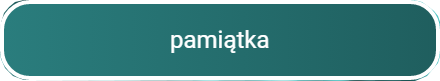
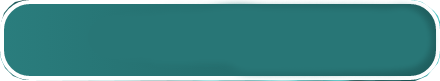
zmiana pytań na text

diff --git a/src/components/SceneGame1.vue b/src/components/SceneGame1.vue
@@ -9,10 +9,26 @@ const store = useScene1Store()
 
 const ifChoice = ref(true)
 
+function blurFocus(){
+  document.getElementsByClassName("odpowiedz")[0].blur()
+  document.getElementsByClassName("odpowiedz")[1].blur()
+  document.getElementsByClassName("odpowiedz")[2].blur()
+  document.getElementsByClassName("odpowiedz")[3].blur()
+}
+
+function changeActive() {
+  store.is_Active1 = false
+  store.is_Active2 = false
+  store.is_Active3 = false
+  store.is_Active4 = false
+}
+
 function afterLoose() {
   if (store.isAnswerBad) {
     setTimeout(() => {
       emits("koniec-gry")
+      changeActive()
+
     }, 2500)
   }
 }
@@ -23,7 +39,7 @@ function odpowiedz1akcja() {
     store.ifChoice = false
     store.closeWin()
     afterLoose()
-
+    blurFocus()
   }
 
 }
@@ -34,7 +50,7 @@ function odpowiedz2akcja() {
     store.ifChoice = false
     store.closeWin()
     afterLoose()
-
+    blurFocus()
   }
 }
 
@@ -44,7 +60,7 @@ function odpowiedz3akcja() {
     store.ifChoice = false
     store.closeWin()
     afterLoose()
-
+     blurFocus()
   }
 }
 
@@ -54,10 +70,16 @@ function odpowiedz4akcja() {
     store.ifChoice = false
     store.closeWin()
     afterLoose()
-
+     blurFocus()
   }
-
 }
+
+function endScene(){
+emits("koniec-gry");
+changeActive();
+}
+
+
 
 
 
@@ -65,19 +87,23 @@ function odpowiedz4akcja() {
 
 <template>
   <div class="tlo">
-    <div class="pytanie"></div>
+    <div class="pytanie">
+      <p class="pytanie-paragraf">
+      {{ store.pytanie }}
+      </p>
+    </div>
     <div class="plansza-wygrana" v-if="store.isAnswerGood"></div>
     <div class="plansza-przegrana" v-if="store.isAnswerBad"></div>
-    <button class="odpowiedz odpowiedz1" :class="{ active: store.is_Active1 }" @click="odpowiedz1akcja"></button>
-    <button class="odpowiedz odpowiedz2" :class="{ active: store.is_Active2 }" @click="odpowiedz2akcja"></button>
-    <button class="odpowiedz odpowiedz3" :class="{ active: store.is_Active3 }" @click="odpowiedz3akcja"></button>
-    <button class="odpowiedz odpowiedz4" :class="{ active: store.is_Active4 }" @click="odpowiedz4akcja"></button>
+    <button class="odpowiedz odpowiedz1" :class="{ active: store.is_Active1 }" @click="odpowiedz1akcja">{{ store.answerA }}</button>
+    <button class="odpowiedz odpowiedz2" :class="{ active: store.is_Active2 }" @click="odpowiedz2akcja">{{ store.answerB }}</button>
+    <button class="odpowiedz odpowiedz3" :class="{ active: store.is_Active3 }" @click="odpowiedz3akcja">{{ store.answerC }}</button>
+    <button class="odpowiedz odpowiedz4" :class="{ active: store.is_Active4 }" @click="odpowiedz4akcja">{{ store.answerD }}</button>
 
-    <button class="play-again" @click="$emit('koniec-gry')"></button>
+    <button class="play-again" @click="endScene"></button>
     <div class="punktacja">
       <p class="czas">Czas na odpowiedź: 8</p>
     </div>
-    <div class="ramka-punkty"></div>
+    <div class="ramka-punkty" :style="{ left: store.ramkPuntyX, top: store.ramkPuntyY }"></div>
   </div>
 
 </template>
@@ -124,7 +150,8 @@ function odpowiedz4akcja() {
   background-position: -16px -18px;
   background-repeat: no-repeat;
   border-radius: 20px;
-
+  color: white;
+  font-size: 30px;
   height: 620px;
   width: 1280px;
   top: 220px;
@@ -132,7 +159,14 @@ function odpowiedz4akcja() {
   position: absolute;
 }
 
+.pytanie-paragraf{
+  position: absolute;
+  top: 290px;
+  left: 300px;
+}
+
 .odpowiedz {
+  background-image: url("../assets/odpowiedz1b.png");
   background-size: 455px 95px;
   background-position: -7px -9px;
   background-repeat: no-repeat;
@@ -140,6 +174,8 @@ function odpowiedz4akcja() {
   border-width: 3px;
   border-style: solid;
   border-color: white;
+  color: white;
+  font-size: 30px;
   height: 81px;
   width: 440px;
   position: absolute;
@@ -155,25 +191,25 @@ function odpowiedz4akcja() {
 }
 
 .odpowiedz1 {
-  background-image: url("../assets/odpowiedz1b.png");
+
   top: 670px;
   left: 140px;
 }
 
 .odpowiedz2 {
-  background-image: url("../assets/odpowiedz2b.png");
+  
   top: 670px;
   left: 640px;
 }
 
 .odpowiedz3 {
-  background-image: url("../assets/odpowiedz3b.png");
+
   top: 790px;
   left: 140px;
 }
 
 .odpowiedz4 {
-  background-image: url("../assets/odpowiedz4b.png");
+
   top: 790px;
   left: 640px;
 }
@@ -201,8 +237,8 @@ function odpowiedz4akcja() {
 
   height: 72px;
   width: 430px;
-  top: 870px;
-  left: 1445px;
+  /* top: 870px;
+  left: 1445px; */
   position: absolute;
 }
 

diff --git a/src/stores/Scene1store.js b/src/stores/Scene1store.js
@@ -17,6 +17,15 @@ export const useScene1Store = defineStore("scene1", {
     count: 0,
 
     ifChoice: true,
+
+    ramkPuntyX: gameData.odpowiedzi[0].ramkaPositionX,
+    ramkPuntyY: gameData.odpowiedzi[0].ramkaPositionY,
+
+    pytanie: gameData.odpowiedzi[0].pytanie,
+    answerA: gameData.odpowiedzi[0].odpowiedz1,
+    answerB: gameData.odpowiedzi[0].odpowiedz2,
+    answerC: gameData.odpowiedzi[0].odpowiedz3,
+    answerD: gameData.odpowiedzi[0].odpowiedz4,
   }),
   getters: {
     doubleCount: (state) => state.count * 2,
@@ -34,6 +43,7 @@ export const useScene1Store = defineStore("scene1", {
       if (gameData.odpowiedzi[this.count].answer == "1") {
         this.isAnswerGood = true;
         this.isAnswerBad = false;
+        this.increment();
       } else {
         this.isAnswerGood = false;
         this.isAnswerBad = true;
@@ -49,6 +59,7 @@ export const useScene1Store = defineStore("scene1", {
       if (gameData.odpowiedzi[this.count].answer == "2") {
         this.isAnswerGood = true;
         this.isAnswerBad = false;
+        this.increment();
       } else {
         this.isAnswerGood = false;
         this.isAnswerBad = true;
@@ -64,6 +75,7 @@ export const useScene1Store = defineStore("scene1", {
       if (gameData.odpowiedzi[this.count].answer == "3") {
         this.isAnswerGood = true;
         this.isAnswerBad = false;
+        this.increment();
       } else {
         this.isAnswerGood = false;
         this.isAnswerBad = true;
@@ -79,6 +91,7 @@ export const useScene1Store = defineStore("scene1", {
       if (gameData.odpowiedzi[this.count].answer == "4") {
         this.isAnswerGood = true;
         this.isAnswerBad = false;
+        this.increment();
       } else {
         this.isAnswerGood = false;
         this.isAnswerBad = true;
@@ -90,6 +103,12 @@ export const useScene1Store = defineStore("scene1", {
       setTimeout(() => {
         this.isAnswerGood = false;
         this.ifChoice = true;
+        this.ramkPuntyX = gameData.odpowiedzi[this.count].ramkaPositionX;
+        this.ramkPuntyY = gameData.odpowiedzi[this.count].ramkaPositionY;
+        this.is_Active1 = false;
+        this.is_Active2 = false;
+        this.is_Active3 = false;
+        this.is_Active4 = false;
       }, 2000);
     },
 

diff --git a/src/components/MainComp.vue b/src/components/MainComp.vue
@@ -3,8 +3,8 @@ import SceneStart from './SceneStart.vue';
 import SceneGame1 from './SceneGame1.vue';
 import { ref } from 'vue';
 
-const ifStart = ref(false);
-const ifSceneGame1=ref(true)
+const ifStart = ref(true);
+const ifSceneGame1=ref(false)
 
 function koniec_gry(){
     ifStart.value=true
